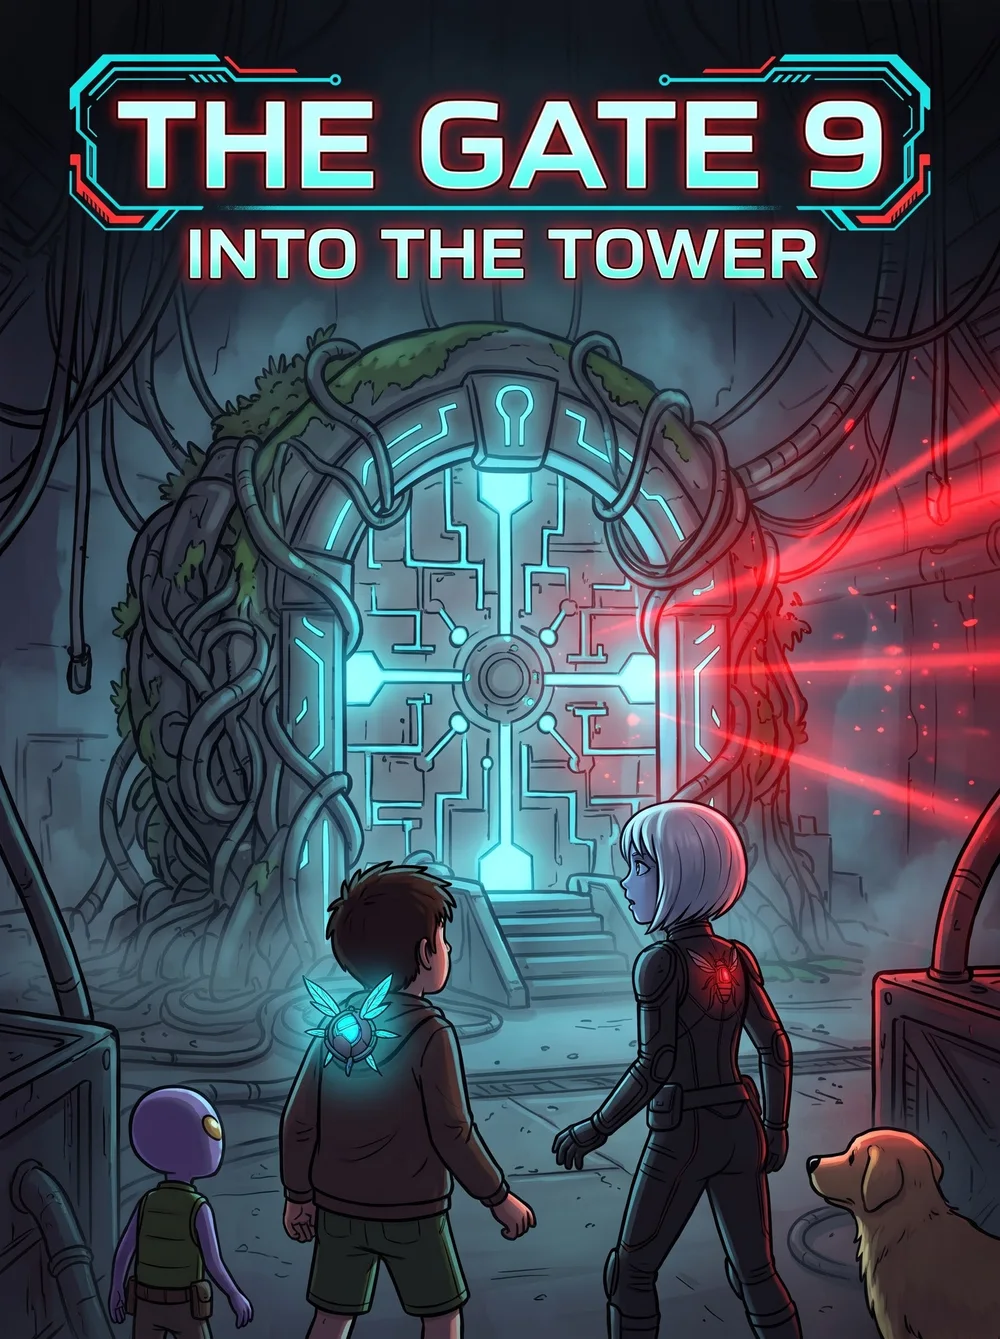
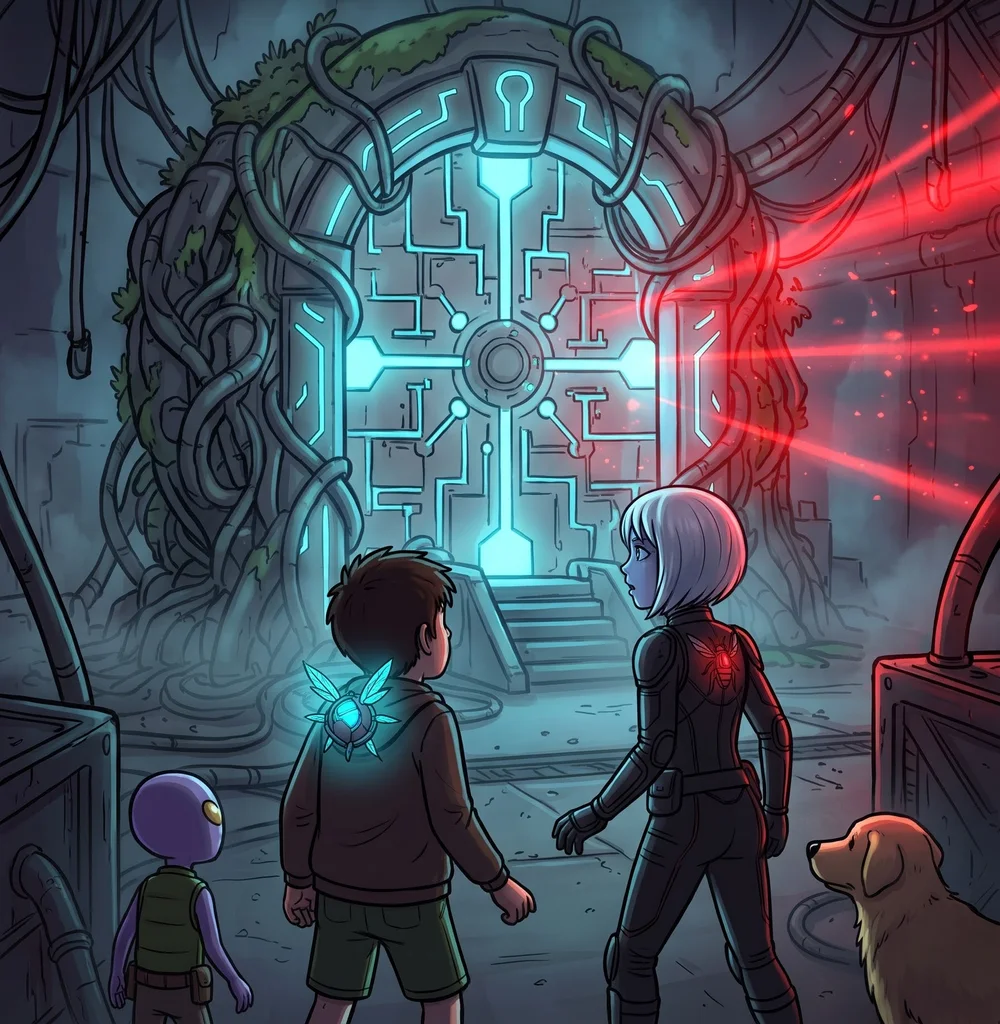
Ep9 cover: framed panel like Ep8, title cropped, slides in step with Ep8
Claude-Session: https://claude.ai/code/session_01F2bA6QnhMqinQqfHDPoVRY

diff --git a/MetalBug/index.html b/MetalBug/index.html
@@ -1546,6 +1546,7 @@ function title(editName=false){
   RUN++;Mic.off();Snd.music(false);Snd.theme(true);setStatic(0);panelView=null;$('#ret').style.display='none';document.querySelectorAll('.pin').forEach(p=>p.remove());
   stageH(56,false);cam('title',{dur:0});cap(null);$('#curtain').classList.add('up');
   const tl=el('div','');tl.id='title';tl.style.cssText='position:absolute;inset:0;z-index:8;display:flex;flex-direction:column;justify-content:flex-end;pointer-events:none;background:linear-gradient(0deg,rgba(13,18,32,.95),transparent 55%)';
+  {const _rm=tl.remove.bind(tl);tl.remove=()=>{world.style.translate='';bez.style.translate='';_rm();};}
   const t=el('div','ttl','The Gate 8:');t.append(el('em','','The Empty Room'));
   stage.style.touchAction='pan-x';
   const car=el('div','');car.id='car';tl.append(car);
@@ -1556,7 +1557,7 @@ function title(editName=false){
   const HUE={'01':175,'02':280,'03':225,'04':140,'05':-5,'06':310,'07':175};
   const past=[['01','assets/ep1.jpg',[],slideTint(40,60,130),'Archive sealed'],['02','assets/ep2.jpg',[],slideTint(110,20,90),'Memory fragment'],['03','assets/ep3.jpg',[],slideTint(70,30,140),'Frequency unknown'],['04','assets/ep4.jpg',[],slideTint(10,100,100),'File corrupted'],['05','assets/ep5.jpg',[],slideTint(130,70,10),'Echo only'],['06','assets/ep6.jpg',[],slideTint(140,15,35),'Signal weak'],['07','assets/ep7.jpg',[],slideTint(30,50,120,.6),'Signal lost']].map(([n,pg,r,t,sg])=>{const sl=lockSlide(n,pg,r,t,sg);sl.querySelector('.sil').style.filter=`brightness(.3) contrast(1.5) sepia(1) hue-rotate(${HUE[n]}deg) saturate(2) blur(1.5px)`;sl.querySelectorAll('.sil.g').forEach((g,i)=>{g.style.filter=`brightness(.85) contrast(1.35) sepia(1) hue-rotate(${HUE[n]+(i?35:0)}deg) saturate(2.6)`;g.style.opacity='.9';});return sl;});
   const s8=el('div','slide');s8.append(t);
-  const s9=el('div','slide');s9.style.background='#05070d';{const cv=el('div','');cv.style.cssText='position:absolute;inset:46px 0 0;background:url(assets/ep9-cover.webp?v=1) center top/cover no-repeat';s9.append(cv);}
+  const s9=el('div','slide');{const f=el('div','');f.style.cssText=`position:absolute;left:${bez.style.left};top:${bez.style.top};width:${bez.style.width};height:${bez.style.height};background:#05070d url(assets/ep9-cover.webp?v=3) center/cover no-repeat;box-shadow:0 0 0 3px #000,0 0 0 5px var(--paper)`;s9.append(f);const t9=el('div','ttl','The Gate 9:');t9.append(el('em','','Into the Tower'));s9.append(t9);}
   const s10=lockSlide('10',1,[1492,52,1008,568],'linear-gradient(180deg,rgba(10,70,70,.5),rgba(5,7,13,.92))','Transmission incoming');
   const EP8=TEST?0:past.length,EP9=EP8+1;
   const hl=el('div','swh l','‹'),hr=el('div','swh r','›');
@@ -1571,8 +1572,9 @@ function title(editName=false){
     trayEpisode=curEp+1;
     renderTray();
   };
-  if(!TEST)car.addEventListener('scroll',()=>{if(!car.clientWidth)return;const n=Math.round(car.scrollLeft/car.clientWidth);if(n!==curEp){curEp=n;paint();Snd.init();sfx('tick');hl.remove();hr.remove();}},{passive:true});
-  stage.append(tl);car.style.scrollBehavior='auto';car.scrollLeft=car.clientWidth*EP8;
+  const drift=()=>{const x=-(car.scrollLeft-car.clientWidth*EP8);world.style.translate=x+'px 0';bez.style.translate=x+'px 0';};
+  if(!TEST)car.addEventListener('scroll',()=>{if(!car.clientWidth)return;drift();const n=Math.round(car.scrollLeft/car.clientWidth);if(n!==curEp){curEp=n;paint();Snd.init();sfx('tick');hl.remove();hr.remove();}},{passive:true});
+  stage.append(tl);car.style.scrollBehavior='auto';car.scrollLeft=car.clientWidth*EP8;drift();
   play.replaceChildren();
   const go=el('button','go',S.checkpoint?.chapter===S.ch?(S.ch===4?'Continue · finale ▸':`Continue · paragraph ${S.ch+1} ▸`):S.ch>0&&S.ch<4?`Continue · paragraph ${S.ch+1} ▸`:'Start ▸');
   const wrap=el('div','');wrap.style.cssText='display:flex;flex-direction:column;gap:10px;margin-top:auto';
